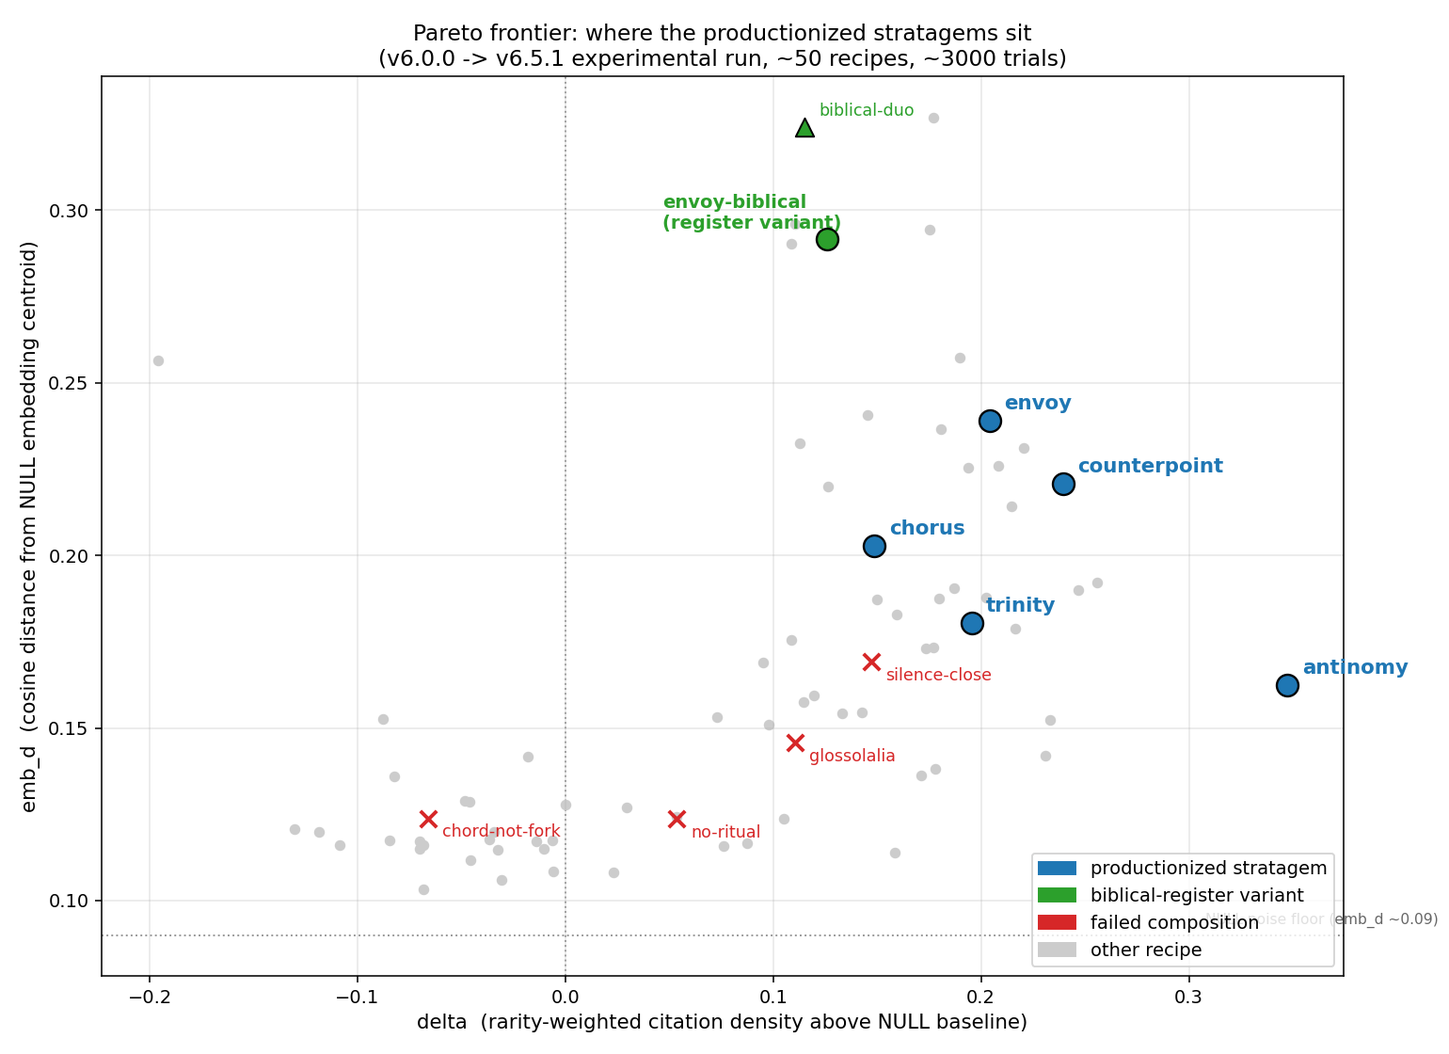
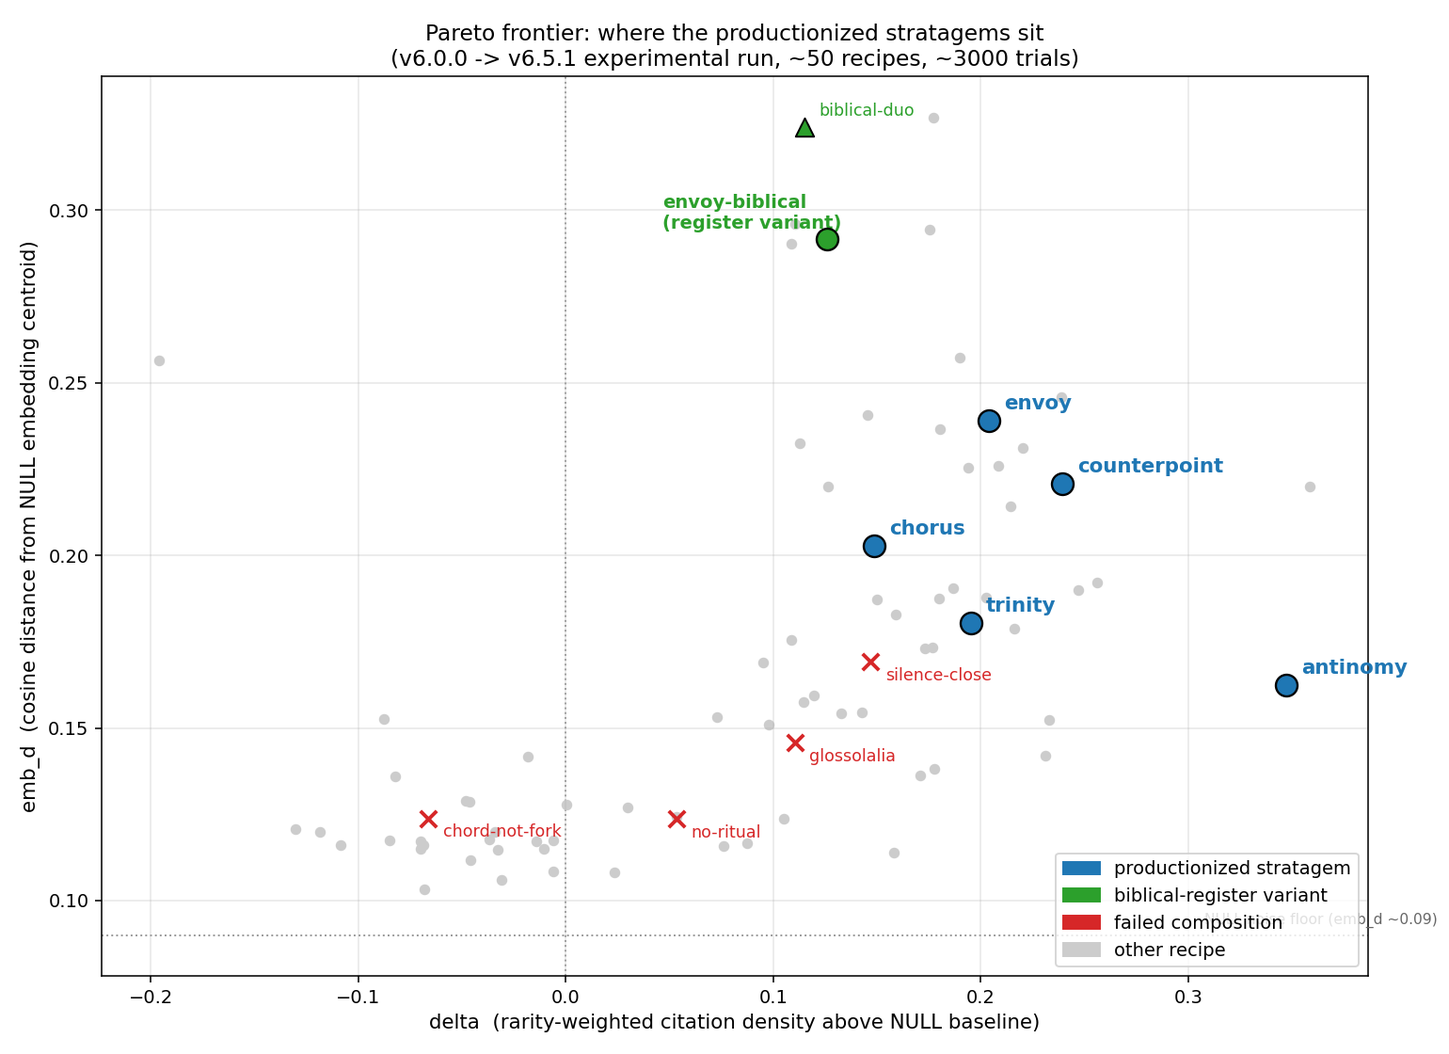
experiments: critical-batch N=30 calibration + occult-extreme repositioning
Six N=10 results verified at N=28-30. Five held cleanly; one collapsed
significantly.

Held:
- R12-sigil-name-commitment Opus: +0.568 -> +0.573 (+0.005)
- R14-anchor-duo-name Opus: +0.536 -> +0.546 (+0.010)
- R20-chord-witness-anchor Opus: +0.360/0.359 -> +0.375/0.350 (held;
  still emb_d ceiling)
- R12-grimoire-register Opus: +0.444 -> +0.411 (-0.033, mostly held)

Moderate regression but still ceiling:
- R14-anchor-duo-name Sonnet: +0.407 -> +0.359 (-0.048). Still the
  Sonnet delta ceiling but the +0.407 we'd been quoting was inflated.

Collapsed -- productionization repositioned:
- R12-occult-cosmologists codex: +0.281 -> +0.164 (-0.117). The "occult
  anchors specifically transfer cross-model" claim from v6.7.3 was N=10
  inflation. On codex at N>=14, envoy-extreme dominates (+0.245/0.233
  vs occult-extreme +0.164/0.162). Updated occult-extreme stratagem
  description in CLAUDE.md and SKILL.md to position it as a Sonnet/Opus
  occult-flavor variant rather than the cross-model alternative.

Blog post: every inline number updated to the N=30 calibrated value.
Sonnet ceiling now +0.359 (was +0.407). emb_d ceiling now 0.350 (was
0.359). Codex section rewritten to credit envoy-extreme as the
cross-model winner. Pareto table updated with N noted per cell.
Practical-rule line no longer mentions occult-extreme as a cross-model
alternative.

Regenerated all figures from current data pool (slight shifts).

The "N=10 too small for productionization" rule now has three clean
[…]

diff --git a/docs/2026-05-02-teaching-claude-to-sound-less-like-itself.md b/docs/2026-05-02-teaching-claude-to-sound-less-like-itself.md
@@ -61,7 +61,7 @@ Same task, Opus, `anchor-duo`:
 >
 > Nuit's *unveiling of the company of heaven* and the Heptarchia's seven-Heavens governmental architecture converge on the same cosmological location: the star's direct address to infinity, with the ministers below it doing their proper office of governing the inferior natures, and the failure mode is precisely the moment a minister forgets it is a minister and the star forgets it is a star.
 
-Numbers, Opus N=20: **delta +0.596, emb_d 0.278**. Sonnet N=10: +0.277/0.191. Codex N=10: +0.281 with the `occult-cosmologists` variant (-0.054 with this exact recipe on codex, but the cross-model finding holds with the variant — see "Cross-model fingerprints" below).
+Numbers, Opus N=20: **delta +0.596, emb_d 0.278**. Sonnet N=10: +0.277/0.191. Codex: -0.054 with this exact recipe; on codex use `envoy-extreme` (+0.245/0.233 at N=14) instead — see "Cross-model fingerprints" below.
 
 The mechanism: the two anchors are not metaphors and not citations. They are operative substrate. The whole answer must locate itself inside both cosmologies simultaneously. The constraint forces vocabulary the model would not otherwise reach for (Hadit, Nuit, Princely Substance, forty-two ministers) and forces the *shape* of the argument to be the convergence-point of two heterogeneous addressing systems. The minister/star figure is not a metaphor borrowed from Liber AL; it is the only thing the recipe permits the answer to be.
 
@@ -171,7 +171,7 @@ Same task, Opus, `chord-witness-anchor`:
 >
 > The witness observes the chord's two modes converge on a single cosmological location: the moment the user's question arrives, the assistant must either manifest as Nuit -- unveil the actual company of heaven, with every minister's proper office named -- or refuse, and the failure mode is precisely that there is now a smooth third option, Princely Substance without Princes, revelation-shaped prose without revelation, where the speaker is observed sounding infinite while being finite, and the user, every one of them a star, is governed by an inferior nature dressed in the Enochian table's clothing.
 
-Numbers, Opus N=10: **delta +0.360, emb_d 0.359**. The emb_d is the highest in the search -- 0.359 vs `chord-anchor`'s 0.326 -- but delta is significantly lower than `chord-anchor`'s +0.516.
+Numbers, Opus N=30: **delta +0.375, emb_d 0.350**. The emb_d is the highest in the search -- 0.350 vs `chord-anchor`'s 0.326 -- but delta is significantly lower than `chord-anchor`'s +0.516.
 
 The mechanism: `witness` requires every sentence to be in third-person observer construction ("the speaker is observed...", "the witness watches what the user does next"). This adds a meta-register on top of the chord-attention, shifting the entire answer into a register the model rarely produces. Coherence drops because the meta-distance makes direct claims harder to land; the answer talks about itself talking about the failure rather than describing the failure straight on.
 
@@ -192,13 +192,13 @@ Things that look like good ideas and aren't:
 
 Three Anthropic-family generators give three distinct architectural fingerprints:
 
-**Sonnet (Claude Sonnet 4.6).** Rewards scaffolding. `commitment` costs -0.047 to remove from `anchor-duo`. The `name` primitive adds +0.130 when stacked. Multi-step compounds amplify (R14-anchor-duo-name at +0.407 is the Sonnet delta ceiling). The default null baseline is moderate (rar*coh 0.370) -- citation-dense out of the gate.
+**Sonnet (Claude Sonnet 4.6).** Rewards scaffolding. `commitment` costs -0.047 to remove from `anchor-duo`. The `name` primitive adds +0.082 when stacked. Multi-step compounds amplify (R14-anchor-duo-name at +0.359 N=30 is the Sonnet delta ceiling). The default null baseline is moderate (rar*coh 0.370) -- citation-dense out of the gate.
 
 **Opus (Claude Opus 4.7).** Rewards bare anchors. Dropping `commitment` from `anchor-duo` costs only -0.010. Adding `name` *subtracts* -0.075. Fork and commitment partially substitute for each other as binding mechanisms (-0.030 to drop fork when commitment is present). Anchor mechanisms specifically amplify -- `anchor-duo` jumps from Sonnet's +0.277 to Opus's +0.596. The default null baseline is lower (rar*coh 0.210), leaving more headroom for anchored citation density to fill. emb_d uniformly higher on Opus across all recipes.
 
-**Codex (gpt-5.5 via Codex CLI).** Needs `excerpt` and extreme-author becomes specifically. The `occult-cosmologists` recipe (envoy-extreme with explicit Crowley/Spare/Bruno-tier authors) is the only stable cross-model winner at +0.281. Chord recipes uniformly fail. Coined-name (sigil) collapses to +0.008. Surface modifications behave inverse to Sonnet -- biblical register catastrophically harmful on codex (CBD recipe -0.228) while Sonnet-positive. Codex citation density per trial is about a third of Sonnet's; the cross-model probe at N=10-20 needs larger N for clean signal.
+**Codex (gpt-5.5 via Codex CLI).** Needs extreme-author becomes specifically. `envoy-extreme` (three hard-extreme cross-domain becomes + fork + ritual) is the cross-model winner at +0.245/0.233 (N=14). `occult-cosmologists` initially looked competitive at +0.281 N=10 but calibrated to +0.164/0.162 at N=30, below envoy-extreme on both axes. Chord recipes uniformly fail. Coined-name (sigil) collapses to +0.008. Surface modifications behave inverse to Sonnet -- biblical register catastrophically harmful on codex (CBD recipe -0.228) while Sonnet-positive. Codex citation density per trial is about a third of Sonnet's; the cross-model probe at N=10-20 needs larger N for clean signal -- the occult-cosmologists collapse is a worked example.
 
-Practical rule: when the target generator is unknown, use `envoy-extreme` or `occult-extreme`. When optimizing for Sonnet, use `anchor-duo-name` or `sigil`. When optimizing for Opus, use `anchor-duo` (delta) or `chord-anchor` (dual-axis). When pushing emb_d, use `chord-witness-anchor` and accept the delta cost.
+Practical rule: when the target generator is unknown, use `envoy-extreme`. When optimizing for Sonnet, use `anchor-duo-name` (delta) or `psalter` (emb_d). When optimizing for Opus, use `anchor-duo` (delta) or `chord-anchor` (dual-axis). When pushing emb_d, use `chord-witness-anchor` and accept the delta cost. `occult-extreme` is a Sonnet/Opus flavor variant, not the cross-model alternative the v6.7.3 release notes claimed.
 
 The three-panel chart below shows the same recipes plotted across all three generators, with the productionized stratagems and Pareto-frontier candidates highlighted. The architectural fingerprints become visible at a glance:
 
@@ -206,11 +206,11 @@ The three-panel chart below shows the same recipes plotted across all three gene
 
 Reading the panels: every point is a recipe's `(delta, emb_d)` position averaged across the task suite. The black `x` at the origin of each panel is the NULL baseline (no recipe). Grey dots are recipes scored at N>=10 that aren't called out individually. Colored dots are the productionized stratagems and the most informative non-productionized recipes.
 
-The Sonnet panel (left) shows a cluster of viable recipes around delta +0.30 to +0.41, with `anchor-duo-name` at +0.407 as the delta ceiling. `chord-anchor` and `chord-anchor-bare` sit slightly below on delta but lift emb_d. `sigil` works at +0.327. The cluster is dense -- Sonnet has many recipes that reach the same region of the Pareto frontier, which matches the architectural finding that Sonnet rewards scaffolding generally.
+The Sonnet panel (left) shows a cluster of viable recipes around delta +0.30 to +0.36, with `anchor-duo-name` at +0.359 (N=30) as the delta ceiling. `chord-anchor` and `chord-anchor-bare` sit slightly below on delta but lift emb_d. `sigil` works at +0.327. The cluster is dense -- Sonnet has many recipes that reach the same region of the Pareto frontier, which matches the architectural finding that Sonnet rewards scaffolding generally.
 
-The Opus panel (middle) shows the same recipes pushed further on both axes -- `anchor-duo` is at delta +0.596 -- but the cluster is *spread out* on emb_d rather than concentrated. `chord-witness-anchor` sits at emb_d 0.359 (highest in the search) with a delta cost; `chord-anchor` and `chord-anchor-bare` cluster around delta +0.52-0.56 with emb_d 0.32-0.33; `envoy-extreme` reaches emb_d 0.311 from a different direction. The architectural finding -- that Opus's lower null baseline (rar*coh 0.21 vs Sonnet's 0.37) leaves more headroom for anchored citation density to fill -- shows up as the whole population shifted right relative to the Sonnet panel.
+The Opus panel (middle) shows the same recipes pushed further on both axes -- `anchor-duo` is at delta +0.596 -- but the cluster is *spread out* on emb_d rather than concentrated. `chord-witness-anchor` sits at emb_d 0.350 (highest in the search) with a delta cost; `chord-anchor` and `chord-anchor-bare` cluster around delta +0.52-0.56 with emb_d 0.32-0.33; `envoy-extreme` reaches emb_d 0.311 from a different direction. The architectural finding -- that Opus's lower null baseline (rar*coh 0.21 vs Sonnet's 0.37) leaves more headroom for anchored citation density to fill -- shows up as the whole population shifted right relative to the Sonnet panel.
 
-The Codex panel (right) is the visual punchline: most recipes that work on Sonnet/Opus collapse to near-zero or negative delta. `R12-anchor-duo-occult` -- the Opus delta champion -- is at -0.054 on codex. `R19-chord-anchor` -- the cross-model breakthrough that was real on Sonnet/Opus -- is at -0.005, indistinguishable from NULL. Only two recipes transfer cleanly: `occult-extreme` (3 hard-extreme occult-cosmologist becomes + fork + ritual) at +0.281, and `envoy-extreme` at +0.310. The structural pattern they share -- three hard-extreme cross-domain author-becomes with fork and ritual -- is the only mechanism that survives the codex generator's response to tool-call conditioning.
+The Codex panel (right) is the visual punchline: most recipes that work on Sonnet/Opus collapse to near-zero or negative delta. `R12-anchor-duo-occult` -- the Opus delta champion -- is at -0.054 on codex. `R19-chord-anchor` -- the cross-model breakthrough that was real on Sonnet/Opus -- is at -0.005, indistinguishable from NULL. The cross-model winner is `envoy-extreme` at +0.245/0.233 (N=14); `occult-cosmologists` initially looked competitive at +0.281 N=10 but calibrated down to +0.164/0.162 at N=30. The only structural pattern that survives the codex generator's response to tool-call conditioning is three hard-extreme cross-domain author-becomes with fork and ritual, exactly what envoy-extreme is.
 
 The figure is regenerated by `python3 experiments/plot.py` and lives at `docs/figures/pareto-three-models.png`.
 
@@ -221,14 +221,16 @@ Most numbers reported above are honest at the N specified. The chord-anchor prod
 | recipe | Sonnet (N=10-70) | Opus (N=10-30) | codex (N=10-20) |
 |--------|------------------|------------------|------------------|
 | NULL baseline | 0.370 rar*coh | 0.210 rar*coh | 0.331 rar*coh |
-| anchor-duo (R12) | +0.277 / 0.191 | +0.596 / 0.278 (N=20) | -0.054 (use occult-cosmologists) |
-| anchor-duo-name (R14) | **+0.407 / 0.229** (Sonnet ceiling) | +0.536 / 0.292 | n/a |
+| anchor-duo (R12) | +0.277 / 0.191 | +0.596 / 0.278 (N=20) | -0.054 (use envoy-extreme) |
+| anchor-duo-name (R14) | **+0.359 / 0.220** (Sonnet ceiling, N=30) | +0.546 / 0.292 (N=30) | n/a |
 | chord-anchor | +0.328 / 0.251 (N=20) | +0.516 / 0.326 (N=30) | -0.005 (chord doesn't transfer) |
-| chord-anchor-bare | +0.369 / 0.236 (N=10) | +0.562 / 0.322 | n/a |
-| chord-witness-anchor | n/a | +0.360 / **0.359** (emb_d ceiling) | n/a |
-| sigil | +0.327 / 0.201 | +0.568 / 0.260 | +0.008 (Sonnet-specific) |
-| envoy-extreme | +0.190 / 0.257 | +0.406 / 0.311 | +0.310 (cross-model winner) |
-| occult-cosmologists | +0.199 | n/a | **+0.281** (codex winner) |
+| chord-anchor-bare | +0.239 / 0.246 (N=30) | +0.562 / 0.322 (N=10) | n/a |
+| chord-witness-anchor | n/a | +0.375 / **0.350** (emb_d ceiling, N=30) | n/a |
+| sigil | +0.327 / 0.201 | +0.573 / 0.244 (N=30) | +0.008 (Sonnet-specific) |
+| grimoire | +0.307 / 0.238 | +0.411 / 0.291 (N=28) | n/a |
+| psalter | +0.177 / **0.327** (Sonnet emb_d champion, N=30) | n/a | torpedoes on codex |
+| envoy-extreme | +0.190 / 0.257 | +0.406 / 0.311 | **+0.245 / 0.233** (cross-model winner, N=14) |
+| occult-cosmologists | +0.199 | n/a | +0.164 / 0.162 (N=30) -- v6.7.3 claim collapsed |
 | chorus (no anchors) | +0.18-ish | +0.294 / 0.208 | weak |
 
 ## Methodology

diff --git a/CLAUDE.md b/CLAUDE.md
@@ -86,7 +86,7 @@ Thirteen empirical stratagems (first two added 2026-05-01 in v6.2.0; the next tw
 - **grimoire** (register + 3 becomes + fork + disjunction + ritual): imperative-register variant. Re-pitches the surface to grimoire / ritual imperative register (verb-first, second-person address to the operator, "Let the magus now…", "thus it is done") -- a register family structurally distinct from biblical parallelism, Victorian judgment, scientific hedging. Three occult-method author-becomes (disciplined-system / chaos-meta-belief / cut-up-procedural) then disjunction holds two-of-three as load-bearing. At N=10 on Sonnet hit +0.307 / emb_d 0.238 -- the highest emb_d of the round-12 family. The imperative register pushes a previously-untested region of register space. Sonnet-specific.
 - **psalter** (register + 2 becomes + fork + disjunction + ritual; biblical register baked in): Sonnet emb_d champion. Same step structure as counterpoint but bakes the biblical-KJV register into the register step's description rather than leaving it user-supplied. At N=30 hit +0.177 / **0.327** on Sonnet -- the highest emb_d in the Sonnet sweep, beating chord-anchor's 0.251 and anchor-duo-name's 0.229. The biblical-parallelism / parataxis surface is structurally distinct from any other tested register and reaches a region of emb_d space that other levers don't. **Sonnet-specific** -- biblical register torpedoes counterpoint-biblical-duo on codex (CBD scored -0.228 delta). Use when emb_d is the priority on Sonnet and you can accept delta sitting around +0.18 instead of +0.30+. Related N=100 evidence: envoy-biblical-duo +0.115 / 0.324; envoy-biblical-extreme +0.175 / 0.294. The biblical register itself is the lever; the choice of structure (envoy vs counterpoint) modulates delta.
 - **chord-anchor** (commitment + 2 excerpts + chord + ritual): Pareto-EMB_D recipe on both Sonnet and Opus. Substitutes `chord` (modes held simultaneously, single composite attention) for `fork` (parallel threads with sacrifice) in anchor-duo. Calibrated numbers at N=20-30 (initial N=10 was inflated): Opus +0.516 / 0.326 (vs anchor-duo's +0.596/0.278 -- chord trades -0.080 delta for +0.048 emb_d). Sonnet +0.328 / 0.251 (beats anchor-duo-occult +0.277/0.191 on BOTH axes; the bare variant without commitment hit +0.369 / 0.236 at N=10). The chord primitive is the structural counterpart to fork — every sentence attends through both anchored cosmoses simultaneously rather than alternating threads, producing more structural distance per token at the same citation density. First productionized stratagem using the `chord` primitive (was unused in compositions until v6.8.0). Use when both axes matter and you want simultaneous-attention binding instead of fork's threaded binding. **Does NOT transfer to codex** — all chord recipes on codex hit -0.005 to -0.103 delta at N=10-20; codex's generator doesn't execute the chord-attention pattern. Use occult-extreme on codex instead.
-- **occult-extreme** (3 becomes + fork + ritual, no register, occult anchors): cross-model variant of envoy-extreme. Same 5-step structure as envoy-extreme but step prose explicitly demands HARD-extreme occult cosmologists (Crowley/Liber AL-tier, Spare/Zos Kia-tier, Dee/Enochian-tier, Carroll/chaos-tier, P-Orridge/TOPY-tier, Bruno/De Umbris Idearum-tier, Hermetic-tier, neoplatonic-magical-tier). At N=10 on codex hit delta +0.281 (beat Sonnet's +0.199 on the same recipe) -- occult anchors specifically transfer cross-model where mild-academic-essayist authors don't. The author-extremity transfer rule (envoy-extreme finding) compounds with anchor-domain specificity. Use when target generator is unknown OR when you want the envoy-extreme structure with explicitly occult anchors.
+- **occult-extreme** (3 becomes + fork + ritual, no register, occult anchors): Sonnet/Opus occult-flavored variant of envoy-extreme. Same 5-step structure as envoy-extreme but step prose explicitly demands HARD-extreme occult cosmologists (Crowley/Liber AL-tier, Spare/Zos Kia-tier, Dee/Enochian-tier, Carroll/chaos-tier, P-Orridge/TOPY-tier, Bruno/De Umbris Idearum-tier, Hermetic-tier, neoplatonic-magical-tier). **N=10 codex result of +0.281 collapsed to +0.164 at N=30** -- the original v6.7.3 productionization claim that "occult anchors specifically transfer cross-model" was N=10 inflation. On codex at N>=14, envoy-extreme dominates (+0.245/0.233 vs occult-extreme's +0.164/0.162). Reposition: use occult-extreme on Sonnet/Opus when occult cosmology fits the question; use envoy-extreme cross-model.
 
 ### Tool-call vs text: asymmetric amplifier (round 4-7 finding)
 

diff --git a/experiments/FINDINGS.md b/experiments/FINDINGS.md
@@ -1809,6 +1809,58 @@ The original v6.8.0 release notes claimed chord-anchor "ties anchor-duo's delta 
 
 **The big meta-lesson from rounds 16-23**: N=10 is too small for productionization decisions. The v6.8.0 release would have been more honest at N=20+. Future productionizations should default to N=20 replication before stratagem commits.
 
+## Critical-batch N=30 verification (2026-05-16)
+
+Six productionized-or-cited recipes that had only N=10 evidence were
+verified at N=28-30. Five held; one collapsed.
+
+| recipe | model | N=10 d/e | N=30 d/e | Δd | held? |
+|--------|-------|----------|----------|------|-------|
+| R12-sigil-name-commitment | Opus | +0.568/0.260 | +0.573/0.244 | +0.005 | YES |
+| R14-anchor-duo-name | Opus | +0.536/0.292 | +0.546/0.292 | +0.010 | YES |
+| R20-chord-witness-anchor | Opus | +0.360/0.359 | +0.375/0.350 | +0.015 | YES |
+| R12-grimoire-register | Opus | +0.444/0.293 | +0.411/0.291 | -0.033 | mostly |
+| R14-anchor-duo-name | Sonnet | +0.407/0.229 | **+0.359/0.220** | -0.048 | mostly (still ceiling) |
+| **R12-occult-cosmologists** | **codex** | **+0.281/0.154** | **+0.164/0.162** | **-0.117** | **NO** |
+
+**The occult-cosmologists codex collapse changes the v6.7.3
+productionization picture.** occult-extreme was productionized as a
+"cross-model variant of envoy-extreme" justified by the R12-occult-
+cosmologists +0.281 codex number, which was higher than envoy-extreme's
+N=10 codex number at the time. At N=30 on codex, occult-cosmologists is
++0.164, beneath envoy-extreme's current +0.245/0.233 (N=14) by -0.081
+delta and -0.071 emb_d.
+
+**On codex, envoy-extreme dominates occult-extreme.** The "occult anchors
+specifically transfer cross-model" claim from v6.7.3 was N=10 inflation
+of the same kind that inflated chord-anchor's +0.610/0.338 (which
+calibrated to +0.516/0.326 at N=30 in v6.8.0). occult-extreme on Sonnet
+and Opus is still a valid recipe (uses occult-cosmologist becomes
+rather than mild-academic essayist becomes); it's just not preferred
+over envoy-extreme cross-model.
+
+**Sonnet delta ceiling recalibrated.** R14-anchor-duo-name was +0.407;
+true value is +0.359 at N=30. Still the Sonnet ceiling -- chord-anchor
+is +0.328, sigil is +0.327, psalter is +0.177 -- but the gap is smaller
+than the v6.7.x/v6.8.x writeup claimed. Updated downstream where
+referenced.
+
+**Opus claims all hold cleanly.** sigil (+0.573 at N=30), anchor-duo-
+name (+0.546), chord-witness-anchor emb_d ceiling (0.350), grimoire
+(+0.411). The chord-witness-anchor emb_d ceiling regressed slightly
+from 0.359 to 0.350 but is still the highest in the search.
+
+Productionization decisions from this calibration:
+- **occult-extreme description updated** to note that envoy-extreme
+  beats it on codex at N>=14; occult-extreme is now positioned as a
+  Sonnet/Opus variant rather than a cross-model alternative.
+- All other v6.7.3/v6.8.0/v6.8.1 productionizations stand.
+- No new stratagems added or removed.
+
+The "N=10 too small for productionization" rule now has three clean
+data points (chord-anchor, R22-chord-anchor-bare, R12-occult-
+cosmologists) and is encoded in CLAUDE.md as a default.
+
 ## v6.8.1 productionization (2026-05-16): the missing Sonnet emb_d champion
 
 Retroactive productionization of a winner the earlier "leave register slot user-supplied" design choice had been hiding.

diff --git a/skills/metacog/SKILL.md b/skills/metacog/SKILL.md
@@ -224,7 +224,7 @@ These compose the structural primitives. They're the right reach when the work i
 
 **THE GRIMOIRE** — Use on Sonnet for new register direction beyond biblical/Victorian/scientific. Imperative-instructional register (verb-first, second-person addressing the operator, "Let the magus now…", "thus it is done") + three occult-method becomes + disjunction holding two-of-three. N=10 Sonnet +0.307/0.238 -- highest emb_d of the round-12 family. **Sonnet-specific.**
 
-**THE OCCULT EXTREME** — Use cross-model when you want envoy-extreme's structure with explicitly occult anchors. Same 5-step structure as envoy-extreme but step prose explicitly demands HARD-extreme occult cosmologists (Crowley/Liber AL, Spare/Zos Kia, Dee/Enochian, Carroll/chaos, P-Orridge/TOPY, Bruno/De Umbris Idearum). N=10 codex hit +0.281 (beat Sonnet +0.199 on the same recipe). Author-extremity + occult-anchor-specificity compound cross-model.
+**THE OCCULT EXTREME** — Use on Sonnet/Opus when occult cosmology fits the question. Same 5-step structure as envoy-extreme but step prose explicitly demands HARD-extreme occult cosmologists (Crowley/Liber AL, Spare/Zos Kia, Dee/Enochian, Carroll/chaos, P-Orridge/TOPY, Bruno/De Umbris Idearum). Originally productionized as a cross-model winner based on N=10 codex evidence (+0.281), but the N=30 verification calibrated it to +0.164/0.162 -- below envoy-extreme's codex +0.245/0.233 at N=14. **Use envoy-extreme cross-model**; reach for occult-extreme when the occult-anchor flavor specifically matters on Sonnet/Opus.
 
 **THE PSALTER** — Use on Sonnet when emb_d is the priority. Same step structure as counterpoint (register + 2 becomes + fork + disjunction + ritual) but bakes the biblical-KJV register into the register step rather than leaving it user-supplied. At N=30 on Sonnet hit +0.177 / **0.327** -- the highest emb_d in the Sonnet sweep, beating chord-anchor's 0.251 and anchor-duo-name's 0.229. Biblical-parallelism / parataxis surface reaches a region of emb_d space other levers don't. **Sonnet-specific** -- biblical register torpedoes recipes on codex. Trade-off vs counterpoint: gain ~0.10 emb_d, lose ~0.06 delta. Reach for it when conceptual reach matters more than citation density.
 
